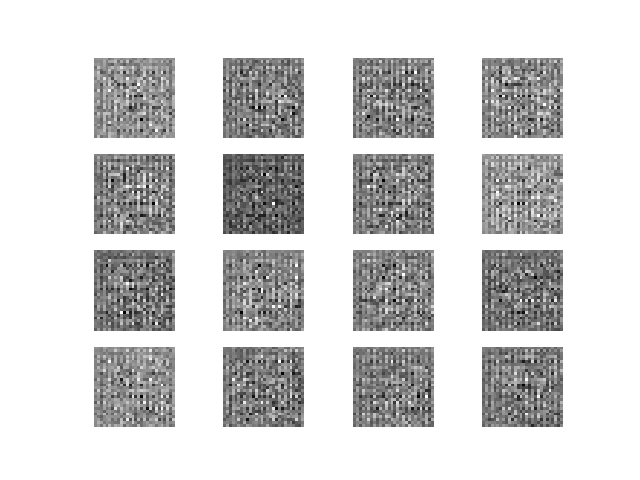
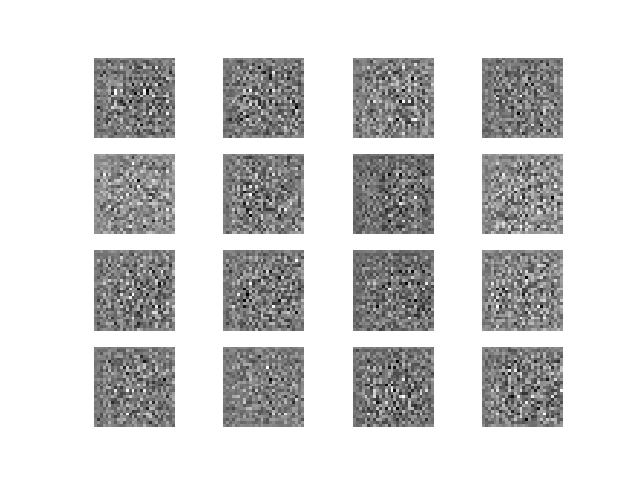
started dcgan for celeba

diff --git a/dcgan_celebA.py b/dcgan_celebA.py
@@ -1,26 +1,26 @@
 
-
 from tensorflow.keras.models  import Sequential, Model
 from tensorflow.keras.layers import *
 from tensorflow.keras.optimizers import Adam
-from tensorflow.keras.datasets import mnist
+import matplotlib.pyplot as plt
 import tensorflow as tf
 import numpy as np
-import matplotlib.pyplot as plt
+from PIL import Image
+import glob
 
-tf.logging.set_verbosity(tf.logging.ERROR)
-
-class CycleGAN:
-    def __init__(self):
-        (self.data, _), (_, _) = mnist.load_data()
+class DCGAN_CELEB:
+    def __init__(self, img_dir='datasets/img_align_celeba/'):
+        self.img_files = np.array(glob.glob(img_dir+'*.jpg'), dtype=np.str)
+        self.num_images = len(self.img_files)
         self.latent_dim = 100
-        self.input_shape = self.data.shape[1:] + (1,)
+        self.input_shape = (218, 178, 3)
         self.batch_size = 32
         self.num_steps = 4000
-        self.save_dir = 'plots/'
-        self.save_interval=100
-        self.preprocess_data()
+        self.save_dir = 'generated/'
+        self.save_interval = 100
+        self.num_channels = 3
         self.make_gan()
+
 
     def make_generator_model(self):
         model = Sequential()
@@ -34,7 +34,17 @@ class CycleGAN:
         model.add(Conv2DTranspose(64, (5, 5), strides=(2, 2), padding='same', use_bias=False))
         model.add(BatchNormalization(momentum=0.8))
         model.add(LeakyReLU(alpha=0.2))
-        model.add(Conv2DTranspose(1, (5, 5), strides=(2, 2), padding='same', use_bias=False, activation='tanh'))
+        model.add(Conv2DTranspose(128, (5, 5), strides=(2, 2), padding='same', use_bias=False))
+        model.add(BatchNormalization(momentum=0.8))
+        model.add(LeakyReLU(alpha=0.2))
+        model.add(Conv2DTranspose(256, (5, 5), strides=(2, 2), padding='same', use_bias=False))
+        model.add(BatchNormalization(momentum=0.8))
+        model.add(LeakyReLU(alpha=0.2))
+        model.add(Conv2DTranspose(512, (5, 5), strides=(2, 2), padding='same', use_bias=False))
+        model.add(ZeroPadding2D(padding=(2,1)))
+        model.add(BatchNormalization(momentum=0.8))
+        model.add(LeakyReLU(alpha=0.2))
+        model.add(Conv2DTranspose(self.num_channels, (5, 5), strides=(2, 2), padding='same', use_bias=False, activation='tanh'))
         model.summary()
         model = Model(model.inputs, model.outputs)
         return model
@@ -59,6 +69,8 @@ class CycleGAN:
         model.add(Dropout(0.25))
         model.add(Flatten())
         model.add(Dense(1, activation='sigmoid'))
+
+
         model.summary()
         model = Model(model.inputs, model.outputs)
         return model
@@ -70,17 +82,19 @@ class CycleGAN:
             optimizer=optimizer,
             metrics=['accuracy']
             )
+
         self.G = self.make_generator_model()
-        z = Input(shape=(self.latent_dim, ))
-        img = self.G(z)
-        self.D.trainable = False # This is important, mention it in blog
-        validity = self.D(img)
-        self.AM = Model(z, validity)
-        self.AM.summary()
-        self.AM.compile(loss='binary_crossentropy',
-            optimizer=optimizer,
-            )
-        self.D.trainable = True # To avoid all the dirty warnings
+        # z = Input(shape=(self.latent_dim, ))
+        # img = self.G(z)
+        # self.D.trainable = False # This is important, mention it in blog
+        # validity = self.D(img)
+        # self.AM = Model(z, validity)
+        # self.AM.summary()
+        # self.AM.compile(loss='binary_crossentropy',
+        #     optimizer=optimizer,
+        #     )
+        #
+        # self.D.trainable = True # To avoid all the dirty warnings
 
 
     def train(self):
@@ -101,11 +115,8 @@ class CycleGAN:
 
             if step%self.save_interval==0:
                 self.plot_images(step)
-
         self.plot_images('final')
-        self.D.save('discriminator.h5')
-        self.G.save('generator.h5')
-        self.AM.save('adversarial.h5')
+
 
     def plot_images(self, step, num_images = 16):
         noise = np.random.normal(0, 1, size=[num_images, self.latent_dim])
@@ -114,22 +125,19 @@ class CycleGAN:
         fig, axes = plt.subplots(4, 4)
         for i, img in enumerate(fake_images):
             r, c = i//4, i%4
-            axes[r, c].imshow(img[:,:,0], cmap='gray')
+            axes[r, c].imshow(img[:,:,0], cmap='rgb')
             axes[r, c].axis('off')
         fig.savefig(self.save_dir+'step_%s.png' %step)
 
 
-    def preprocess_data(self):
-        # Scale in -1 to 1
-        self.data = self.data.astype('float32')/127.5-1
-        self.data = np.expand_dims(self.data, axis = -1)
-
     def get_real_images_batch(self):
-        idx = np.random.randint(0, self.data.shape[0], self.batch_size)
-        return self.data[idx]
-
-
+        idx = np.random.randint(0, self.num_images, self.batch_size)
+        img_files =  self.img_files[idx]
+        data =  np.array([np.array(Image.open(file).resize([28, 28], Image.BILINEAR)) for file in img_files])
+        data = data.astype('float32')/127.5-1
+        return data
 
 if __name__=='__main__':
-    dcgan = DCGAN()
-    dcgan.train()
+    tf.logging.set_verbosity(tf.logging.ERROR)
+    dcgan_celeb = DCGAN_CELEB()
+    # dcgan_celeb.train()
